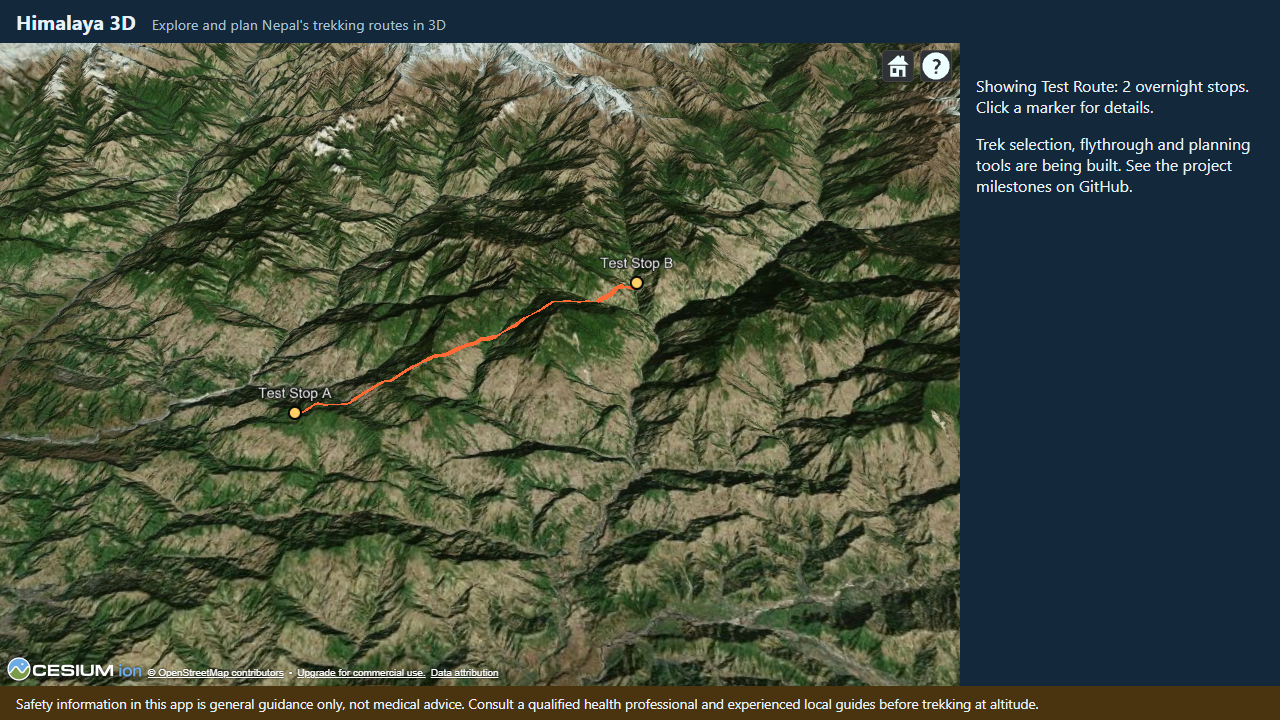
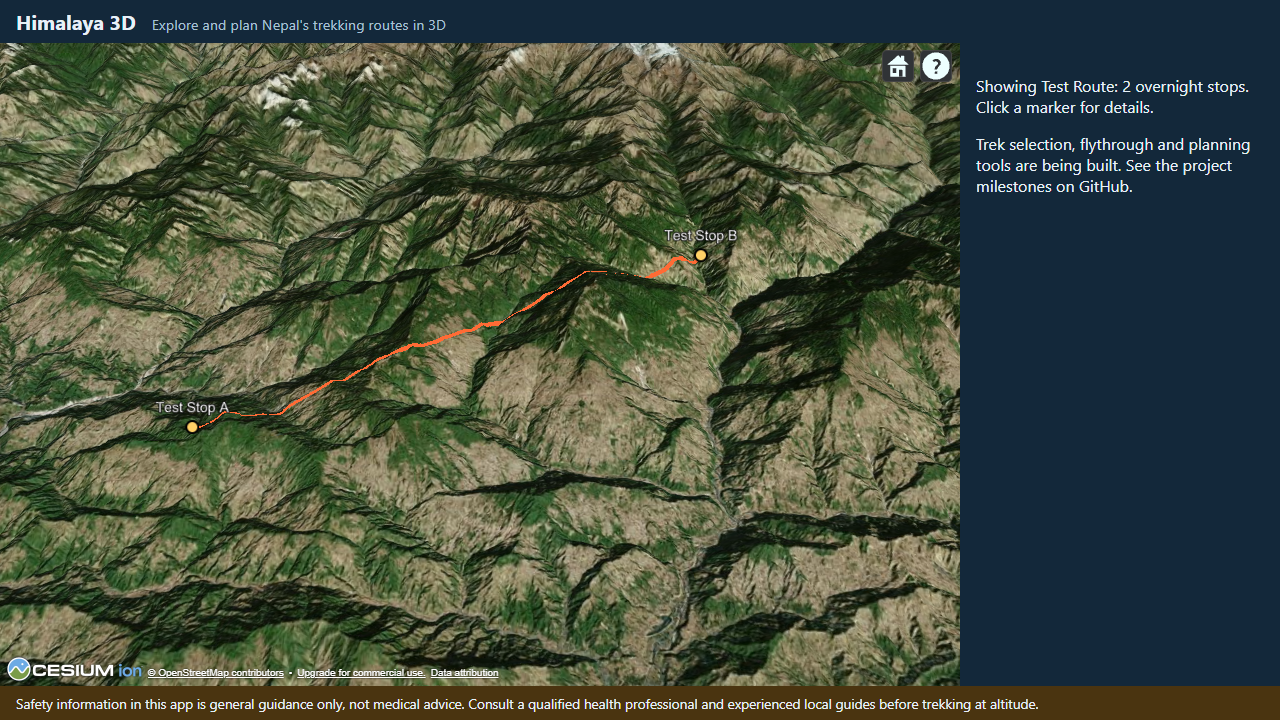
fix(3d-engine): apply review — late data-source add, separate fly-to, safer loading
- an add that finishes after the effect cleanup now removes itself (StrictMode double effect)
- fly to the route in its own effect on [viewer, route]: a language switch no longer moves the camera
- useRoutes checks the route file's shape inside try, so a bad file cannot blank the page
- t() placeholders use Object.hasOwn; route_index skips null features and missing ids
- e2e: markers really drawn (data-drawn-stops), and a missing route file shows the error
- fixture geometry_source TEST; comments, notes, ADR-025 and progress corrected

Refs #15

diff --git a/app/src/features/routes/RouteLayer.tsx b/app/src/features/routes/RouteLayer.tsx
@@ -3,21 +3,28 @@
  * Owner: Sparsh Gorkhali. Related FR: FR2 (route and stops on the map).
  *
  * Everything for one route goes into one Cesium CustomDataSource. Adding the data source shows
- * the route; removing it (in the effect's cleanup) removes every entity at once, so switching
- * routes or unmounting can never leave old markers behind.
+ * the route; removing it (in the effect's cleanup) removes every entity at once.
  *
  * - The trail is a polyline with clampToGround: Cesium drapes it over the terrain, so it follows
  *   the valleys instead of cutting through mountains.
  * - Each stop is a point + label clamped to the ground. disableDepthTestDistance = Infinity keeps
  *   markers visible even where a ridge would hide them. Clicking a marker opens Cesium's info
  *   box with the stop's description (routeEntities.ts builds that HTML).
- * - The camera flies to the route when it changes.
+ *
+ * Two effects, on purpose:
+ * 1. DRAW (runs when the viewer, the route or the language changes): rebuild the data source,
+ *    so labels and popups are in the right language.
+ * 2. FLY (runs only when the viewer or the route changes): move the camera to the route. A
+ *    language switch must not throw the user's view away.
  */
 import {
+  BoundingSphere,
   Cartesian2,
   Cartesian3,
+  Math as CesiumMath,
   Color,
   CustomDataSource,
+  HeadingPitchRange,
   HeightReference,
   LabelStyle,
   VerticalOrigin,
@@ -34,12 +41,15 @@ const STOP_COLOR = Color.fromCssColorString('#ffd166');
 interface RouteLayerProps {
   route: RouteFile | null;
   language: Language;
+  /** Called with the number of stop markers once they are really on the globe (0 when removed). */
+  onDrawn?: (stopMarkers: number) => void;
 }
 
 /** Draws `route` (or nothing). Renders no HTML of its own. */
-export function RouteLayer({ route, language }: RouteLayerProps) {
+export function RouteLayer({ route, language, onDrawn }: RouteLayerProps) {
   const viewer = useViewer();
 
+  // 1. DRAW
   useEffect(() => {
     if (!viewer || !route) return;
     const drawing = routeDrawing(route, language);
@@ -83,20 +93,46 @@ export function RouteLayer({ route, language }: RouteLayerProps) {
       });
     }
 
+    // dataSources.add finishes a moment later (it returns a Promise). If the cleanup below runs
+    // first — React StrictMode does effect → cleanup → effect straight away — remove() would find
+    // nothing to remove, and the add would then go through anyway. So when the add finishes we
+    // check `removed` and take the data source away again ourselves.
     let removed = false;
     void viewer.dataSources.add(dataSource).then(() => {
-      if (removed || viewer.isDestroyed()) return;
-      void viewer.flyTo(dataSource, { duration: 1.5 });
+      if (viewer.isDestroyed()) return;
+      if (removed) {
+        viewer.dataSources.remove(dataSource);
+        return;
+      }
+      onDrawn?.(drawing.stops.length);
     });
 
     return () => {
       removed = true;
       if (!viewer.isDestroyed()) {
-        viewer.dataSources.remove(dataSource, true); // true = also destroy its entities
-        viewer.scene.requestRender();
+        viewer.dataSources.remove(dataSource); // no-op if the add has not finished yet (see above)
+        viewer.scene.requestRender(); // request-render mode: show that the route is gone
       }
+      onDrawn?.(0);
     };
-  }, [viewer, route, language]);
+  }, [viewer, route, language, onDrawn]);
+
+  // 2. FLY
+  useEffect(() => {
+    if (!viewer || !route) return;
+    const drawing = routeDrawing(route, 'en'); // only the positions are used here
+    const sphere = BoundingSphere.fromPoints(Cartesian3.fromDegreesArray(drawing.trail.flat()));
+    // Look at the route from the south, 40° down, from three times its radius (at least 5 km).
+    const offset = new HeadingPitchRange(
+      0,
+      CesiumMath.toRadians(-40),
+      Math.max(sphere.radius * 3, 5000),
+    );
+    viewer.camera.flyToBoundingSphere(sphere, { duration: 1.5, offset });
+    return () => {
+      if (!viewer.isDestroyed()) viewer.camera.cancelFlight();
+    };
+  }, [viewer, route]);
 
   return null;
 }

diff --git a/app/src/ui/App.tsx b/app/src/ui/App.tsx
@@ -9,6 +9,7 @@
  * Layers that draw on the globe (RouteLayer) are children of CesiumGlobe, so they can reach the
  * Cesium Viewer through ViewerContext (docs/ui-design.md).
  */
+import { useState } from 'react';
 import { CesiumGlobe } from '../engine/CesiumGlobe';
 import { RouteLayer } from '../features/routes/RouteLayer';
 import { routeDrawing } from '../features/routes/routeEntities';
@@ -30,6 +31,8 @@ function routeStatusText(routes: RoutesState, language: Language): string {
 /** The whole application page. */
 export function App() {
   const routes = useRoutes();
+  // How many stop markers RouteLayer has really put on the globe (also read by the e2e test).
+  const [drawnStops, setDrawnStops] = useState(0);
 
   return (
     <div className="app">
@@ -41,11 +44,13 @@ export function App() {
       <main className="app-main">
         <section className="globe-area" aria-label={t('globe.label', LANGUAGE)}>
           <CesiumGlobe>
-            <RouteLayer route={routes.current} language={LANGUAGE} />
+            <RouteLayer route={routes.current} language={LANGUAGE} onDrawn={setDrawnStops} />
           </CesiumGlobe>
         </section>
         <aside className="side-panel">
-          <p data-testid="route-status">{routeStatusText(routes, LANGUAGE)}</p>
+          <p data-testid="route-status" data-drawn-stops={drawnStops}>
+            {routeStatusText(routes, LANGUAGE)}
+          </p>
           <p>{t('panel.comingSoon', LANGUAGE)}</p>
         </aside>
       </main>

diff --git a/app/e2e/routes.spec.ts b/app/e2e/routes.spec.ts
@@ -30,6 +30,10 @@ test('shows the selected route and counts its stops (synthetic fixture)', async 
     'Showing Test Route: 2 overnight stops. Click a marker for details.',
   );
   await expect(page.locator('.cesium-widget canvas')).toBeVisible({ timeout: 30_000 });
+  // RouteLayer reports the markers it really added to the globe (not just what the data says).
+  await expect(page.getByTestId('route-status')).toHaveAttribute('data-drawn-stops', '2', {
+    timeout: 30_000,
+  });
 
   if (process.env.UPDATE_SCREENSHOTS === '1') {
     await page.waitForLoadState('networkidle');
@@ -42,4 +46,14 @@ test('says so when the route list cannot be loaded', async ({ page }) => {
   await page.route('**/data/routes/index.json', (route) => route.fulfill({ status: 500 }));
   await page.goto('./');
   await expect(page.getByTestId('route-status')).toContainText('Could not load the trek list');
+});
+
+test('says so when the route file itself is missing', async ({ page }) => {
+  await page.route('**/data/routes/index.json', (route) =>
+    route.fulfill({ contentType: 'application/json', body: fixture('index.json') }),
+  );
+  await page.route('**/data/routes/test-route.geojson', (route) => route.fulfill({ status: 404 }));
+  await page.goto('./');
+  await expect(page.getByTestId('route-status')).toContainText('Could not load the trek list');
+  await expect(page.getByRole('note')).toContainText('not medical advice'); // page still intact
 });

diff --git a/app/src/features/routes/useRoutes.ts b/app/src/features/routes/useRoutes.ts
@@ -7,6 +7,7 @@
  */
 import { useEffect, useState } from 'react';
 import { fetchRoute, fetchRouteIndex, type RouteSummary } from './loadRoutes';
+import { routeDrawing } from './routeEntities';
 import type { RouteFile } from './types';
 
 export type RoutesStatus = 'loading' | 'ready' | 'error';
@@ -28,6 +29,9 @@ export function useRoutes(): RoutesState {
       try {
         const routes = await fetchRouteIndex();
         const current = routes.length > 0 ? await fetchRoute(routes[0].id) : null;
+        // Check the file's shape HERE, inside try: if it were only discovered while rendering,
+        // the error would blank the whole page (including the medical disclaimer).
+        if (current) routeDrawing(current, 'en');
         if (!cancelled) setState({ status: 'ready', routes, current });
       } catch (error) {
         console.error('Could not load routes', error);

diff --git a/app/vite.config.ts b/app/vite.config.ts
@@ -14,7 +14,8 @@
  *    point Vite there. Only variables whose names start with VITE_ reach the browser.
  * 4. Route data — data/routes/index.json and *.geojson are copied to "<base>data/routes/" and
  *    downloaded by the app at run time (features/routes/loadRoutes.ts), not bundled into the
- *    JavaScript. A route is only downloaded when the user picks it, and e2e tests can serve a
+ *    JavaScript. A route file is only downloaded when it is shown (for now the first route in
+ *    the index; the trek selector, #16, will let the user pick), and e2e tests can serve a
  *    synthetic route in their place.
  */
 import { fileURLToPath } from 'node:url';

diff --git a/app/tests/i18n.test.ts b/app/tests/i18n.test.ts
@@ -39,6 +39,11 @@ describe('t() placeholders', () => {
     expect(t('routes.showing', 'ne', { name: 'परीक्षण मार्ग', count: 2 })).toContain('परीक्षण मार्ग');
   });
 
+  it('only uses values the caller passed, not names inherited by every object', () => {
+    // 'constructor' exists on every JavaScript object; it must not count as a value.
+    expect(t('routes.showing', 'en', { count: 2 })).toContain('{name}');
+  });
+
   it('leaves a hole visible when its value is missing', () => {
     expect(t('routes.showing', 'en', { name: 'X' })).toContain('{count}');
   });

diff --git a/app/src/engine/CesiumGlobe.tsx b/app/src/engine/CesiumGlobe.tsx
@@ -95,7 +95,10 @@ export function CesiumGlobe({ children }: { children?: ReactNode }) {
     }
 
     return () => {
-      setViewer(null); // children must stop using the Viewer before it is destroyed
+      // Tell the children there is no Viewer any more. (When the whole page is removed React runs
+      // this cleanup before the children's, so destroy() below happens first; the children are
+      // protected by checking viewer.isDestroyed() in their own cleanups.)
+      setViewer(null);
       removeHomeButtonHandler();
       created?.destroy();
     };

diff --git a/app/src/features/routes/routeEntities.test.ts b/app/src/features/routes/routeEntities.test.ts
@@ -33,7 +33,7 @@ const testRoute: RouteFile = {
         name_ne: 'परीक्षण मार्ग',
         description_en: 'Synthetic.',
         description_ne: 'परीक्षण।',
-        geometry_source: 'OSM',
+        geometry_source: 'TEST',
       },
       geometry: {
         type: 'LineString',

diff --git a/app/src/i18n/index.ts b/app/src/i18n/index.ts
@@ -35,6 +35,6 @@ export function t(
 ): string {
   const text = dictionaries[language][key] ?? dictionaries.en[key] ?? key;
   return text.replace(/\{(\w+)\}/g, (hole, name: string) =>
-    name in values ? String(values[name]) : hole,
+    Object.hasOwn(values, name) ? String(values[name]) : hole,
   );
 }

diff --git a/data-prep/prep/route_index.py b/data-prep/prep/route_index.py
@@ -31,9 +31,13 @@ def build_index(routes_dir: Path = paths.ROUTES_DIR) -> dict:
             data = json.loads(path.read_text(encoding="utf-8"))
         except (UnicodeDecodeError, json.JSONDecodeError):
             continue
-        for feature in data.get("features", []) if isinstance(data, dict) else []:
+        features = data.get("features") if isinstance(data, dict) else None
+        if not isinstance(features, list):
+            continue
+        for feature in features:
             props = feature.get("properties") if isinstance(feature, dict) else None
-            if isinstance(props, dict) and props.get("kind") == "route":
+            is_route = isinstance(props, dict) and props.get("kind") == "route"
+            if is_route and isinstance(props.get("id"), str):
                 routes.append(
                     {
                         "id": props.get("id"),

diff --git a/data-prep/tests/test_route_index.py b/data-prep/tests/test_route_index.py
@@ -48,6 +48,9 @@ def test_index_lists_routes_sorted_by_id(tmp_path):
 
 def test_unreadable_files_are_skipped_not_crashed(tmp_path):
     (tmp_path / "broken.geojson").write_text("{ not json", encoding="utf-8")
+    (tmp_path / "null-features.geojson").write_text('{"features": null}', encoding="utf-8")
+    no_id = '{"features": [{"properties": {"kind": "route", "name_en": "X"}}]}'
+    (tmp_path / "no-id.geojson").write_text(no_id, encoding="utf-8")
     write_route(tmp_path, "alpha-route", "Alpha Route", "अल्फा मार्ग")
     assert [route["id"] for route in build_index(tmp_path)["routes"]] == ["alpha-route"]
 

diff --git a/docs/viva/sparsh-gorkhali.md b/docs/viva/sparsh-gorkhali.md
@@ -196,10 +196,13 @@ Distances before the start or after the end are clamped. Example from the tests:
 App ──useRoutes──► fetch <base>data/routes/index.json ──► fetch <first id>.geojson ──► RouteFile
 App renders <CesiumGlobe> <RouteLayer route=... language=... /> </CesiumGlobe>
 CesiumGlobe ──ViewerContext──► RouteLayer ──useViewer()──► the Viewer (null until it exists)
-RouteLayer effect: routeDrawing(route, language)        plain data, unit-tested
-                   → new CustomDataSource: trail polyline + one point/label per stop
-                   → viewer.dataSources.add(...) → viewer.flyTo(dataSource)
-           cleanup: viewer.dataSources.remove(dataSource, true)   (every entity gone at once)
+RouteLayer DRAW effect [viewer, route, language]:
+     routeDrawing(route, language)                       plain data, unit-tested
+     → new CustomDataSource: trail polyline + one point/label per stop
+     → viewer.dataSources.add(...)  (finishes a moment later: a Promise)
+        └ when it finishes: if already cleaned up → remove it again; else onDrawn(stop count)
+     cleanup: viewer.dataSources.remove(dataSource)       (every entity gone at once)
+RouteLayer FLY effect [viewer, route]:  camera.flyToBoundingSphere(sphere around the trail)
 ```
 
 **Key ideas.**
@@ -213,8 +216,17 @@ RouteLayer effect: routeDrawing(route, language)        plain data, unit-tested
 - *Popups:* each stop entity has a `description` (HTML) that Cesium's info box shows when the
   marker is clicked. The HTML is built in `routeEntities.ts` and every piece of data in it goes
   through `escapeHtml`, so a "<" in a name can never inject markup.
-- *Async safety:* `dataSources.add` returns a promise. If the route changed or the Viewer was
-  destroyed before it resolved, the `removed` flag / `isDestroyed()` check stops the fly-to.
+- *Async safety (found in code review):* `dataSources.add` only really adds the data source a
+  moment later. React StrictMode runs effect → cleanup → effect straight away, so the cleanup's
+  `remove()` can run BEFORE the add finished — and then it removes nothing, and the old markers
+  would stay twice. So when the add finishes, the code checks the `removed` flag and removes the
+  data source itself. `isDestroyed()` guards the case where the whole globe is already gone.
+- *Two effects:* the DRAW effect re-runs when the language changes (labels and popups must
+  change); the FLY effect runs only when the route changes, so switching language does not throw
+  the user's view away.
+- *Checked before rendering:* `useRoutes` runs `routeDrawing` on a downloaded file inside its
+  `try`, so a file with the wrong shape shows "could not load" instead of crashing the page (and
+  the medical disclaimer with it).
 
 **Limits.** The first route is shown automatically until the trek selector (#16). Daily stages are
 #49. The info box is Cesium's own; its styling is basic.
@@ -285,7 +297,8 @@ RouteLayer effect: routeDrawing(route, language)        plain data, unit-tested
 23. **How do layers get the Cesium Viewer?** — Through `ViewerContext`: CesiumGlobe provides it,
     layers call `useViewer()` and must handle null.
 24. **How are old markers removed when the route changes?** — Everything is in one
-    `CustomDataSource`; the effect cleanup calls `dataSources.remove(dataSource, true)`.
+    `CustomDataSource`; the cleanup calls `dataSources.remove(dataSource)`, and if the add had not
+    finished yet, the add's own callback removes it (StrictMode case).
 25. **Why escape the popup HTML when the data is ours?** — Cheap insurance: a `<` or `&` in a name
     can never break the popup or inject markup.
 26. **How can the route be tested before real data exists?** — The e2e test intercepts the two
@@ -313,7 +326,7 @@ RouteLayer effect: routeDrawing(route, language)        plain data, unit-tested
 9. Change the trail colour and width in `RouteLayer.tsx`, rebuild, and take a screenshot with
    `UPDATE_SCREENSHOTS=1 npm run e2e`. Then revert.
 10. Explain, with the code open, what happens if the route changes while `dataSources.add` is
-    still pending. Which line stops the old route's fly-to?
+    still pending. Which lines make sure the old route's markers are removed anyway?
 
 ## AI use in this part
 
